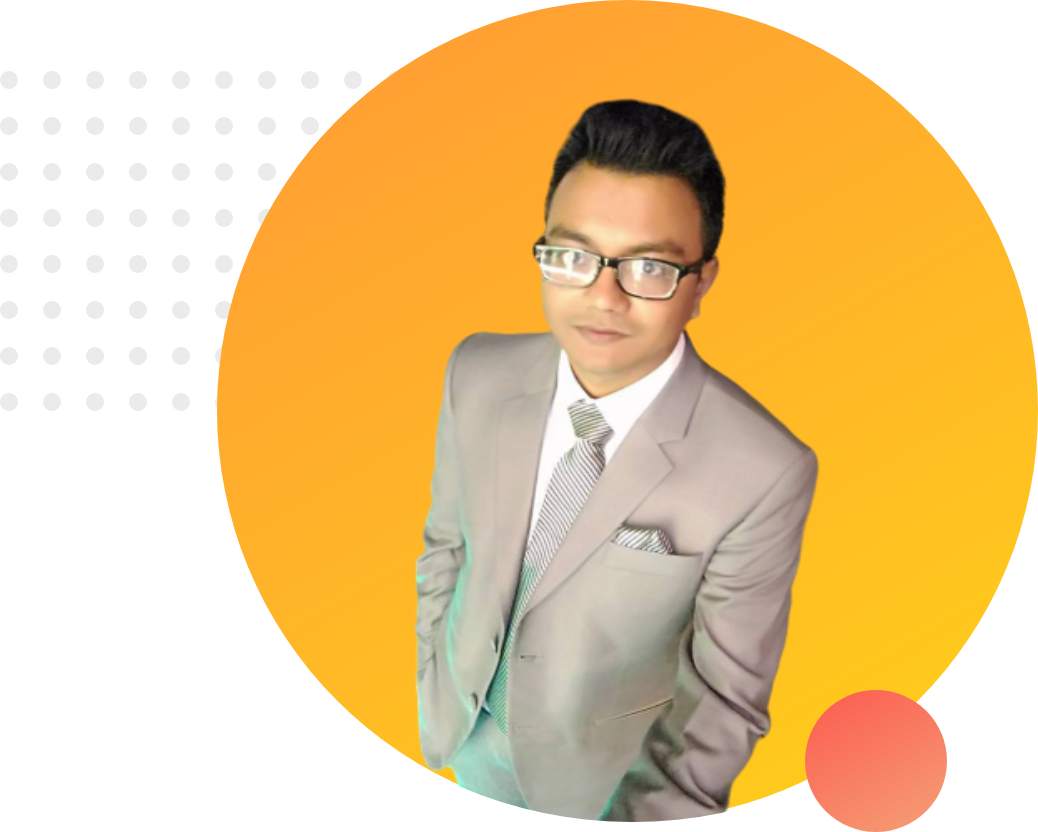
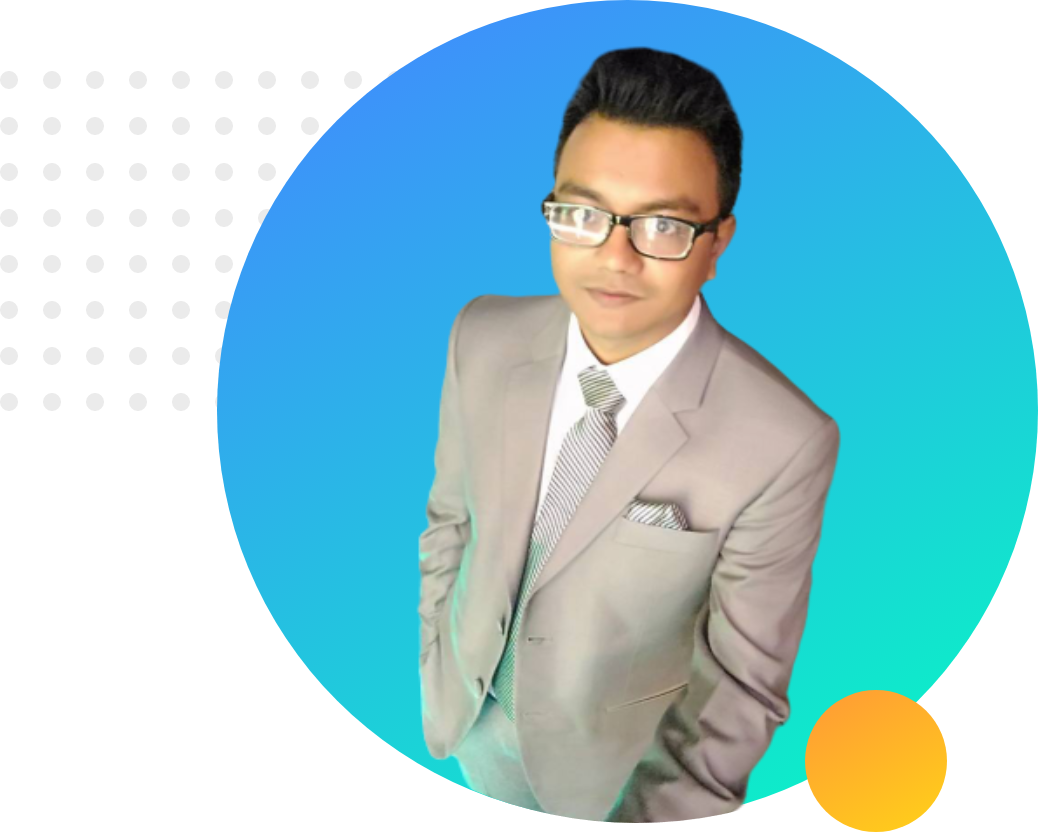
final version

diff --git a/index.html b/index.html
@@ -5,19 +5,80 @@
     <meta name="viewport" content="width=device-width, initial-scale=1.0" />
     <title>Rafsan's Web Site</title>
     <link
-      href="https://fonts.googleapis.com/css2?family=Poppins:ital,wght@0,100;0,200;0,300;0,400;0,500;0,600;0,700;0,800;0,900;1,100;1,200;1,300;1,400;1,500;1,600;1,700;1,800;1,900&display=swap"
+      href="https://fonts.googleapis.com/css2?family=Poppins&display=swap"
       rel="stylesheet"
     />
     <link rel="stylesheet" href="./style.css" />
   </head>
   <body>
-    <h1>Welcome To</h1>
-    <h1><span class="name-highlight">Rafsan's</span> Website</h1>
-    <h3>World-class professional Web Developer</h3>
-    <p>
-      Lorem, ipsum dolor sit amet consectetur adipisicing elit. Voluptatibus
-      animi ab recusandae omnis optio eius porro ex. Laboriosam, suscipit veniam
-      dolores quaerat, fugit dolor sequi ad incidunt cupiditate ipsum enim.
-    </p>
+    <section class="top-banner">
+      <div class="half-width">
+        <h1>Welcome To</h1>
+        <h1><span class="orange-highlight">Rafsan's</span> Website</h1>
+        <h3>World-class professional Web Developer</h3>
+        <p>
+          Lorem, ipsum dolor sit amet consectetur adipisicing elit. Voluptatibus
+          animi ab recusandae omnis optio eius porro ex. Laboriosam, suscipit
+          veniam dolores quaerat, fugit dolor sequi ad incidunt cupiditate ipsum
+          enim.
+        </p>
+        <a
+          class="link-button"
+          href="https://www.linkedin.com/in/al-rafsan-amin-33299081/"
+          target="_blank"
+          >Hire me</a
+        >
+      </div>
+      <div class="half-width">
+        <img src="./images/profile-1.png" alt="" />
+      </div>
+    </section>
+    <section class="dream-area">
+      <div class="half-width">
+        <img src="./images/profile-2.png" alt="" />
+      </div>
+      <div class="half-width">
+        <h2>Big Dream</h2>
+        <h3>Become World's No.1 Developer</h3>
+        <p>
+          Lorem ipsum dolor sit amet consectetur adipisicing elit. Ad dolore,
+          quaerat iste dolorum tenetur voluptatibus eveniet eaque modi eligendi
+          commodi, repellendus, unde quo quos accusamus inventore perspiciatis
+          deleniti omnis veniam.
+        </p>
+        <a
+          class="link-button"
+          href="https://www.linkedin.com/in/al-rafsan-amin-33299081/"
+          target="_blank"
+          >Download Resume</a
+        >
+      </div>
+    </section>
+    <section class="experience-area">
+      <h2>Experiences</h2>
+      <div class="half-width single-experience" id="full-stack">
+        <h2>Full Stack Web Dev</h2>
+        <h3 class="orange-highlight">
+          2021 - Present | Pro level Web Dev
+        </h3>
+        <p>
+          Lorem ipsum dolor sit amet consectetur adipisicing elit. Distinctio
+          dignissimos sunt doloribus blanditiis dolores, reprehenderit porro
+          autem adipisci sit placeat?
+        </p>
+      </div>
+      <div class="half-width single-experience" id="baby-web">
+        <h2>Baby Web Developer</h2>
+        <h3 class="orange-highlight">2020-2021 | Programming Hero Learner</h3>
+        <p>
+          Lorem ipsum dolor sit amet, consectetur adipisicing elit. Eius,
+          repellendus error soluta repellat sit rerum. Quaerat assumenda
+          reiciendis cum? Quidem?
+        </p>
+      </div>
+    </section>
+    <footer>
+      <p>&copy Rafsan 2021, all rights reserved</p>
+    </footer>
   </body>
 </html>

diff --git a/style.css b/style.css
@@ -1,9 +1,72 @@
 body {
+  margin: 0;
   font-family: "Poppins", sans-serif;
 }
 h1 {
   font-size: 50px;
 }
-.name-highlight {
+h2 {
+  font-size: 40px;
+}
+p {
+  color: dimgray;
+}
+.orange-highlight {
   color: orange;
+}
+.half-width {
+  width: 40%;
+  float: left;
+  margin-left: 5%;
+  padding-left: 2%;
+}
+.half-width img {
+  width: 100%;
+}
+.top-banner {
+  background-image: url("./images/top-banner.png");
+  background-repeat: no-repeat;
+}
+section {
+  height: 500px;
+  padding-bottom: 100px;
+}
+.link-button {
+  text-decoration: none;
+  background-image: linear-gradient(45deg, lightsalmon, tomato);
+  padding: 10px 20px;
+  border-radius: 10px;
+  color: white;
+  font-weight: 700;
+}
+.dream-area {
+  background-image: url("./images/dream-bg.png");
+  background-repeat: no-repeat;
+  background-position: right;
+}
+.single-experience {
+  box-shadow: 10px 10px 40px gray;
+  border-radius: 10px;
+  height: 80%;
+  background-color: white;
+}
+.experience-area {
+  background-image: url("./images/exp-bg.png");
+  background-repeat: no-repeat;
+  background-position: left;
+}
+#full-stack {
+  border-left: 7px solid;
+  border-image: linear-gradient(180deg, lightsalmon, tomato);
+  border-image-slice: 1;
+}
+#baby-web {
+  border-left: 7px solid;
+  border-image: linear-gradient(180deg, blue, cyan);
+  border-image-slice: 1;
+}
+footer p {
+  text-align: center;
+  font-size: 12px;
+  text-transform: capitalize;
 }
